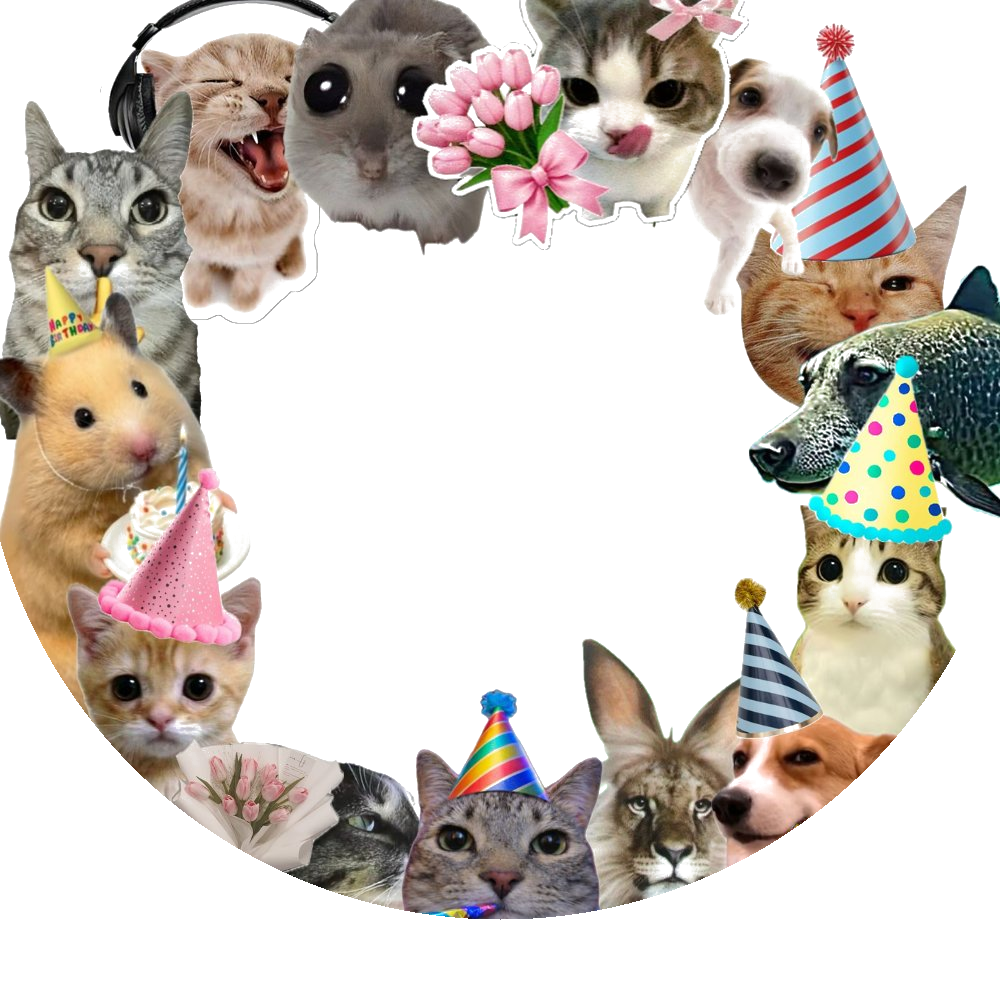
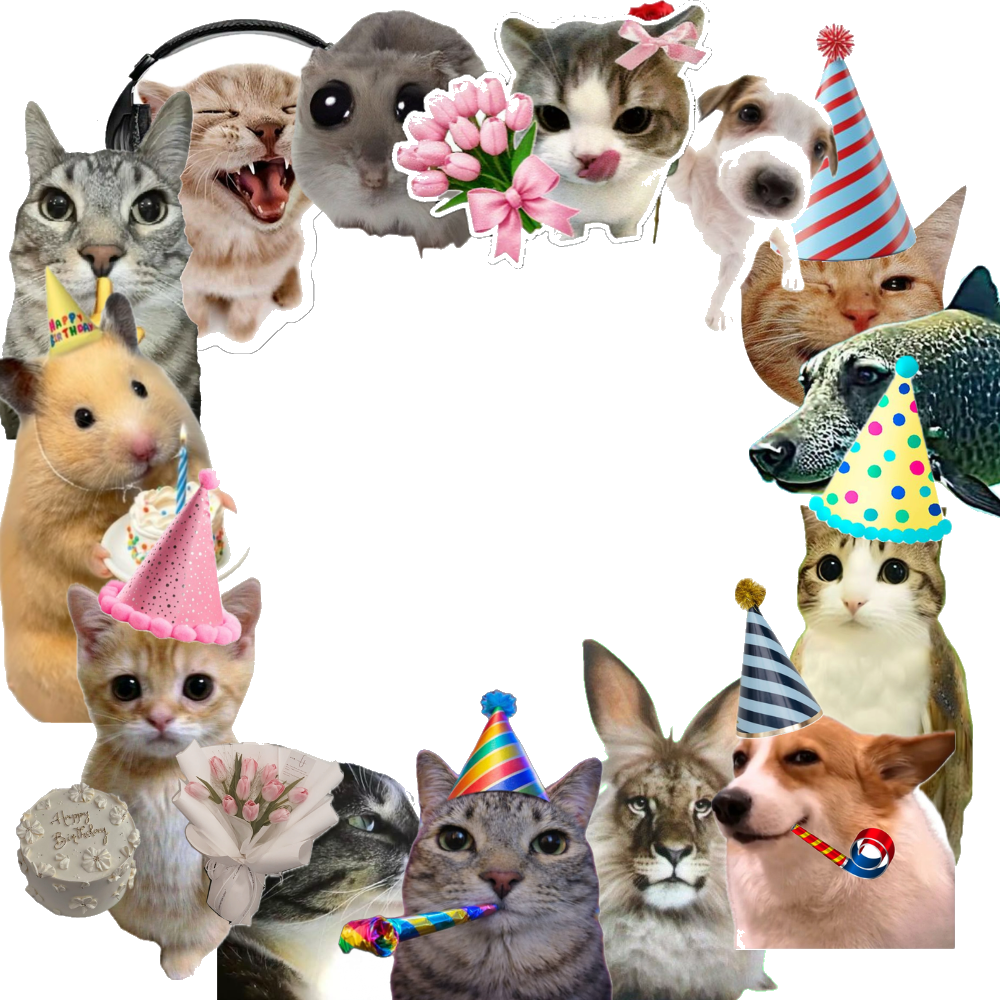
replace collage with transparent PNG, fix CSS positioning

diff --git a/style.css b/style.css
@@ -111,11 +111,7 @@ body::before {
 }
 .main-collage-bg {
   position: absolute;
-  top: 50%;
-  left: 50%;
-  width: min(90vh, 90vw);
-  height: min(90vh, 90vw);
-  transform: translate(-50%, -48%);
+  inset: 5vh 5vw 1vh 5vw;
   background-size: contain;
   background-position: center;
   background-repeat: no-repeat;